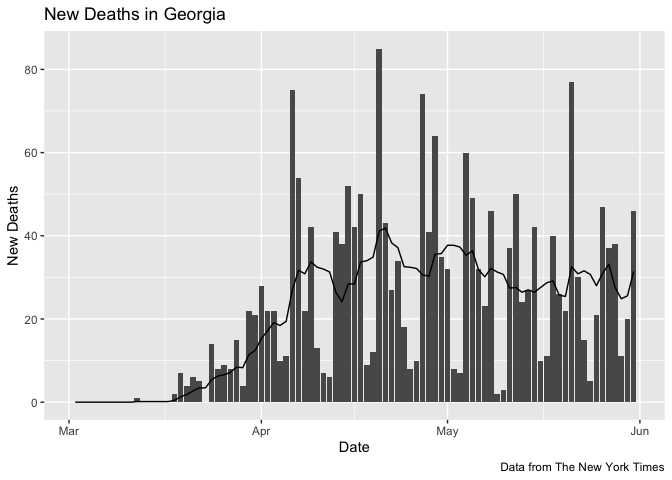
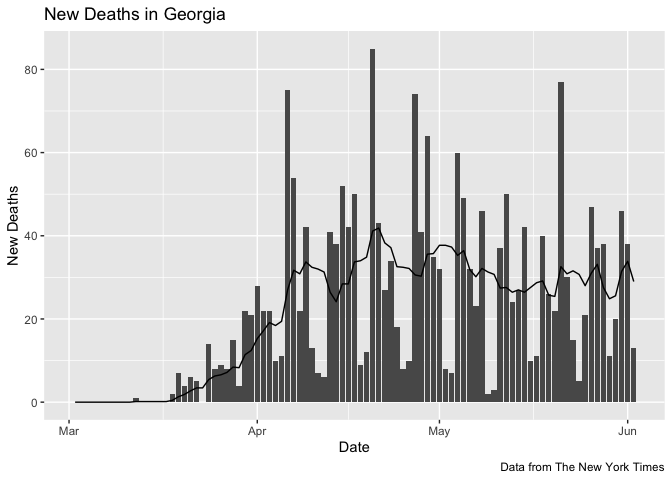
Updated data

diff --git a/Metro_Atlanta_COVID.md b/Metro_Atlanta_COVID.md
@@ -16,7 +16,7 @@ It’s hard to know how to interpret these numbers since there are major
 known unknowns. Neither confirmed cases nor deaths can be said to be
 reliable counts of the true numbers.
 
-Data current as of June 01, 2020.
+Data current as of June 03, 2020.
 
 # Metro Atlanta
 
